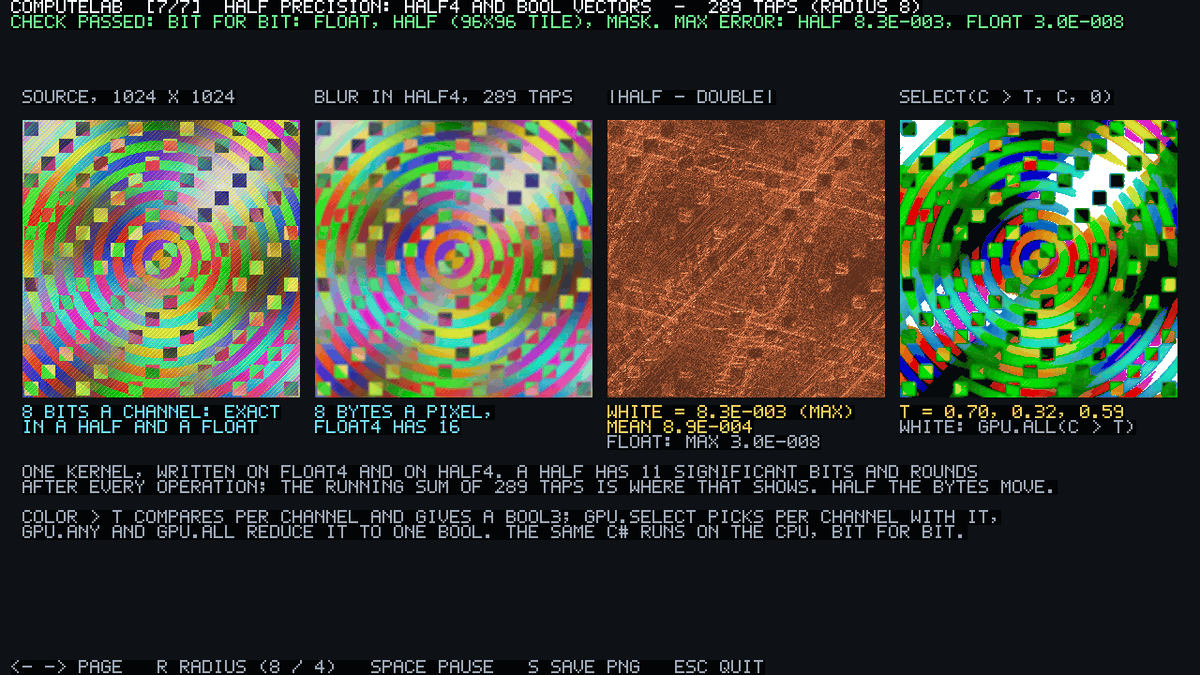
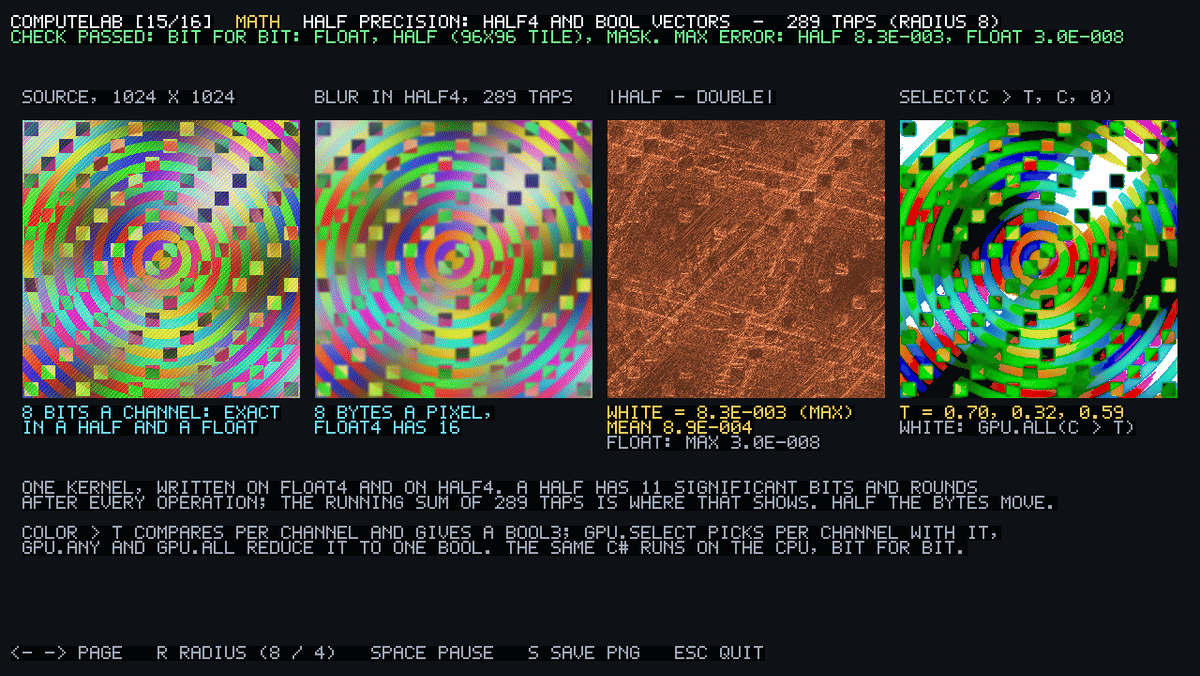
Half precision page joins the lab's Math topic; README grid, thumbnail, tests with local arrays and shared helpers

diff --git a/tests/SharpCompute.Tests/ComputeLab/ComputeLabTests.cs b/tests/SharpCompute.Tests/ComputeLab/ComputeLabTests.cs
@@ -200,7 +200,7 @@ public sealed class ComputeLabTests
         "LocalArrays",
         "SIMD reduction", "SIMD compaction", "SIMD shuffle",
         "Indirect",
-        "Bits", "FastMath", "Small and wide integers",
+        "Bits", "FastMath", "Small and wide integers", "Half precision",
         "Shared code",
     ];
 
@@ -211,8 +211,8 @@ public sealed class ComputeLabTests
         "8-localarrays.png",
         "9-simd-reduction.png", "10-simd-compaction.png", "11-simd-shuffle.png",
         "12-indirect.png",
-        "13-bits.png", "14-fastmath.png", "15-small-and-wide-integers.png",
-        "16-shared-code.png",
+        "13-bits.png", "14-fastmath.png", "15-small-and-wide-integers.png", "16-half-precision.png",
+        "17-shared-code.png",
     ];
 
     [MetalFact]
@@ -231,14 +231,14 @@ public sealed class ComputeLabTests
                     "fixed-size local arrays",
                     "SIMD-group reductions", "ballots and prefix sums", "lane shuffles",
                     "indirect dispatch",
-                    "bit and packing intrinsics", "per-shader compile options", "8-bit and 64-bit integers",
+                    "bit and packing intrinsics", "per-shader compile options", "8-bit and 64-bit integers", "Half4 and bool vectors",
                     "static helpers and struct methods",
                 ],
                 pages.Select(static p => p.Feature));
 
             // Topic by topic, in the lab's order, every topic with at least one page.
             Assert.Equal(
-                [.. Enumerable.Repeat(LabTopics.Atomics, 3), .. Enumerable.Repeat(LabTopics.SharedMemory, 4), LabTopics.LocalArrays, .. Enumerable.Repeat(LabTopics.Simd, 3), LabTopics.Dispatch, LabTopics.Math, LabTopics.Math, LabTopics.Math, LabTopics.CodeReuse],
+                [.. Enumerable.Repeat(LabTopics.Atomics, 3), .. Enumerable.Repeat(LabTopics.SharedMemory, 4), LabTopics.LocalArrays, .. Enumerable.Repeat(LabTopics.Simd, 3), LabTopics.Dispatch, .. Enumerable.Repeat(LabTopics.Math, 4), LabTopics.CodeReuse],
                 pages.Select(static p => p.Topic));
             Assert.Equal(LabTopics.All, pages.Select(static p => p.Topic).Distinct());
             Assert.Equal(pages.Select(static p => p.Topic), pages.Select(static p => p.Topic).OrderBy(static t => LabTopics.All.ToList().IndexOf(t)));
@@ -251,17 +251,20 @@ public sealed class ComputeLabTests
             Assert.Equal(pages.Count, pages.Select(static p => LabPages.Slug(p.Name)).Distinct().Count());
 
             // Only the privatised page times a second dispatch, and only the matrix product has a rate.
-            Assert.Equal(pages.Select(static p => p.Name == "Histogram: privatised"), pages.Select(static p => p.Baseline is not null));
+            Assert.Equal(pages.Select(static p => p.Name is "Histogram: privatised" or "Half precision"), pages.Select(static p => p.Baseline is not null));
             Assert.Equal(pages.Select(static p => p.Name == "MatMul"), pages.Select(static p => p is IRatedPage));
 
             // The CPU side runs on all cores unless the page says otherwise, as its check line does too.
             Assert.Equal(
                 ["PrefixSum", "SIMD reduction", "SIMD compaction", "SIMD shuffle", "Shared code"],
                 pages.Where(static p => p.CpuNote != "all cores").Select(static p => p.Name));
-            Assert.All(pages.Where(static p => p.CpuNote != "all cores" && p.Name != "Shared code"), static p => Assert.Equal("one core", p.CpuNote));
+            Assert.All(pages.Where(static p => p.CpuNote != "all cores" && p.Name is not ("Shared code" or "Half precision")), static p => Assert.Equal("one core", p.CpuNote));
 
             // A CPU time that is extrapolated from a sample says so.
             Assert.Equal("all cores, scaled from every 8th pixel", pages.Single(static p => p.Name == "Shared code").CpuNote);
+
+            // And so does one that is not of the page's own kernel: the half-precision page times the float blur on the CPU.
+            Assert.Equal("all cores, the float blur", pages.Single(static p => p.Name == "Half precision").CpuNote);
 
             // --page takes the name or the file-name form of it, in any case.
             Assert.Equal(1, LabPages.Find(pages, "Histogram: privatised"));
@@ -276,6 +279,9 @@ public sealed class ComputeLabTests
             Assert.Equal(13, LabPages.Find(pages, "fastmath"));
             Assert.Equal(14, LabPages.Find(pages, "small-and-wide-integers"));
             Assert.Equal(14, LabPages.Find(pages, "Small and wide integers"));
+            Assert.Equal(15, LabPages.Find(pages, "half-precision"));
+            Assert.Equal(15, LabPages.Find(pages, "Half precision"));
+            Assert.Equal(16, LabPages.Find(pages, "shared-code"));
             Assert.Equal(-1, LabPages.Find(pages, "privatised"));
             Assert.Equal(-1, LabPages.Find(pages, "shuffle"));
         }
@@ -417,8 +423,8 @@ public sealed class ComputeLabTests
                 Assert.Contains("All GPU results match the CPU.", summary);
                 Assert.DoesNotContain("FAIL", summary);
                 // Every variant of every page: two histograms, compaction, reduction, prefix sum, product, blur, local arrays,
-                // SIMD reduction (3), SIMD compaction, shuffle, indirect (3), bits, fast math, small and wide integers, shared code.
-                int variants = 2 + 2 + 1 + 2 + 1 + 2 + 2 + 2 + 3 + 2 + 2 + 3 + 1 + 2 + 1 + 1;
+                // SIMD reduction (3), SIMD compaction, shuffle, indirect (3), bits, fast math, small and wide integers, half precision, shared code.
+                int variants = 2 + 2 + 1 + 2 + 1 + 2 + 2 + 2 + 3 + 2 + 2 + 3 + 1 + 2 + 1 + 2 + 1;
                 Assert.Equal(variants, summary.Split('\n').Count(static line => line.TrimStart().StartsWith("PASS", StringComparison.Ordinal)));
                 Assert.Contains("256 bins", summary);
                 Assert.Contains("4 bins (64x the contention)", summary);
@@ -436,14 +442,22 @@ public sealed class ComputeLabTests
                 Assert.Equal(variants, summary.Split('\n').Count(static line => line.Contains("GPU ", StringComparison.Ordinal) && line.Contains(" ms   CPU ", StringComparison.Ordinal)));
                 Assert.Equal(2, summary.Split('\n').Count(static line => line.Contains("GFLOP/s   CPU ", StringComparison.Ordinal)));
                 Assert.Equal(1 + 3 + 2 + 2, summary.Split('\n').Count(static line => line.Contains(" ms (one core)", StringComparison.Ordinal))); // the prefix sum, and the SIMD pages' variants
-                Assert.Contains("[9/16] SIMD groups / SIMD reduction: SIMD-group reductions", summary);
+                Assert.Contains("[9/17] SIMD groups / SIMD reduction: SIMD-group reductions", summary);
 
-                Assert.Contains("[15/16] Math / Small and wide integers: 8-bit and 64-bit integers", summary);
+                Assert.Contains("[15/17] Math / Small and wide integers: 8-bit and 64-bit integers", summary);
                 Assert.Contains("1,048,576 bytes equalised in place, 1,048,576 64-bit hashes: GPU, ForCpu and plain C# agree", summary);
 
                 // The privatised histogram is also timed against the global-atomics one, at both bin counts.
-                Assert.Contains("[2/16] Atomics / Histogram: privatised: threadgroup atomics", summary);
+                Assert.Contains("[2/17] Atomics / Histogram: privatised: threadgroup atomics", summary);
                 Assert.Equal(2, summary.Split('\n').Count(static line => line.TrimStart().StartsWith("global atomics: GPU ", StringComparison.Ordinal) && line.Contains("this page's kernel is ", StringComparison.Ordinal)));
+
+                // And the half blur against the float blur, at both radii; its CPU time is the float blur's.
+                Assert.Contains("[16/17] Math / Half precision: Half4 and bool vectors", summary);
+                Assert.Contains("289 taps (radius 8)", summary);
+                Assert.Contains("81 taps (radius 4)", summary);
+                Assert.Equal(2, summary.Split('\n').Count(static line => line.TrimStart().StartsWith("the same blur in float: GPU ", StringComparison.Ordinal) && line.Contains("this page's kernel is ", StringComparison.Ordinal)));
+                Assert.Equal(2, summary.Split('\n').Count(static line => line.Contains("bit for bit: float, half (96x96 tile), mask.", StringComparison.Ordinal)));
+                Assert.Equal(2, summary.Split('\n').Count(static line => line.Contains(" ms (all cores, the float blur)", StringComparison.Ordinal)));
 
                 string[] pictures = s_pictures;
                 Assert.Equal(pictures.Append("summary.txt").Order(), Directory.GetFiles(directory).Select(Path.GetFileName).Order());
@@ -1161,6 +1175,122 @@ public sealed class ComputeLabTests
         using BitsPage bits = new(device);
         Assert.Equal(PipelineOrigin.None, ((ILabPage)bits).KernelOrigin);
         Assert.Equal(string.Empty, LabView.Describe(PipelineOrigin.None));
+    }
+
+    [MetalFact]
+    public void HalfPrecision_BothBlursMatchForCpuBitForBit_AndTheHalfErrorIsWhatElevenBitsGive()
+    {
+        using HalfPrecisionPage page = new(GraphicsDevice.GetDefault());
+
+        page.Compute(Frame);
+        LabCheck wide = page.Check();
+        Assert.True(wide.Passed, wide.Summary);
+        Assert.Equal((8, 289), (page.Radius, page.Taps));
+        Assert.StartsWith("bit for bit: float, half (96x96 tile), mask.", wide.Summary);
+        Assert.NotNull(page.Baseline);
+        Assert.Equal("the same blur in float", page.Baseline!.Value.Name);
+        Assert.True(page.GpuMilliseconds > 0 && page.FloatGpuMilliseconds > 0);
+
+        // The float blur is exact up to its one division; the half blur rounds every tap to 11 bits,
+        // which is five orders of magnitude more and still under 1 % of the range.
+        Assert.InRange(page.FloatMaxError, 0, HalfPrecisionPage.FloatErrorBound);
+        Assert.InRange(page.HalfMaxError, 1e-4, HalfPrecisionPage.HalfErrorBound);
+        Assert.InRange(page.HalfMeanError, 1e-5, page.HalfMaxError);
+        Assert.True(page.HalfMaxError > 1000 * page.FloatMaxError);
+        double wideError = page.HalfMaxError;
+
+        // The alpha channel is the sum of the weights divided by the same sum, in the same order: exactly 1.
+        Assert.All(new[] { 0, 12345, HalfPrecisionPage.Size * HalfPrecisionPage.Size - 1 }, i => Assert.Equal((Half)1f, page.HalfResult[i].W));
+        Assert.Equal(1f, page.FloatResult[777].W);
+
+        // A blur of values in 0..1 stays in 0..1, and the half result is the float result within the error.
+        Half4 half = page.HalfResult[(500 * HalfPrecisionPage.Size) + 300];
+        Float4 single = page.FloatResult[(500 * HalfPrecisionPage.Size) + 300];
+        Assert.InRange((float)half.X, 0f, 1f);
+        Assert.InRange(MathF.Abs((float)half.X - single.X), 0f, (float)page.HalfMaxError + 1e-6f);
+
+        // Fewer taps, a smaller sum, a smaller error.
+        Assert.True(page.OnKeyDown(Key.R));
+        Assert.Equal(1, page.Variant);
+        page.Compute(Frame);
+        LabCheck narrow = page.Check();
+        Assert.True(narrow.Passed, narrow.Summary);
+        Assert.Equal((4, 81), (page.Radius, page.Taps));
+        Assert.True(page.HalfMaxError < wideError, $"{page.HalfMaxError} with 81 taps, {wideError} with 289");
+        Assert.False(page.OnKeyDown(Key.F));
+
+        // Both blurs are compiled without contraction (which is what makes the half one bit-exact on the
+        // CPU), and differ in their types and in nothing else.
+        Assert.Equal(ShaderCompileOptions.NoFpContract, Options<TentBlurFloat>());
+        Assert.Equal(ShaderCompileOptions.NoFpContract, Options<TentBlurHalf>());
+        Assert.Equal(ShaderCompileOptions.None, Options<HighlightMask>());
+        Assert.Equal(
+            Kernel<TentBlurFloat>().Replace(nameof(TentBlurFloat), "X").Replace("packed_float4", "V").Replace("float4(0.0f)", "V0").Replace("float4", "V").Replace("0.0f", "0").Replace("float", "S"),
+            Kernel<TentBlurHalf>().Replace(nameof(TentBlurHalf), "X").Replace("packed_half4", "V").Replace("half4(half(0.0f))", "V0").Replace("half4", "V").Replace("half(0.0f)", "0").Replace("half", "S"));
+        Assert.Contains("sum += image[row + dx] * w;", Kernel<TentBlurHalf>());
+
+        static ShaderCompileOptions Options<T>()
+            where T : struct, IComputeShaderDescriptor<T> => T.CompileOptions;
+
+        // The kernel function: what comes before it is the layout guard of the element type, which does differ.
+        static string Kernel<T>()
+            where T : struct, IComputeShaderDescriptor<T> => T.MslSource[T.MslSource.IndexOf("kernel void", StringComparison.Ordinal)..];
+    }
+
+    [MetalFact]
+    public void HalfPrecision_MaskIsAComponentwiseComparison_AndFollowsTheThreshold()
+    {
+        using HalfPrecisionPage page = new(GraphicsDevice.GetDefault());
+
+        page.Compute(Frame);
+        Half3 threshold = page.Threshold;
+        ReadOnlySpan<Half4> blurred = page.HalfResult;
+        ReadOnlySpan<uint> highlights = page.Highlights;
+        int none = 0, some = 0, all = 0;
+
+        for (int i = 0; i < blurred.Length; i += 37)
+        {
+            // Restated with scalar C#: a channel is kept where it is above its threshold.
+            Half4 color = blurred[i];
+            bool r = color.X > threshold.X, g = color.Y > threshold.Y, b = color.Z > threshold.Z;
+            Float4 expected = r && g && b
+                ? new Float4(1f, 1f, 1f, 1f)
+                : new Float4(r ? (float)color.X : 0f, g ? (float)color.Y : 0f, b ? (float)color.Z : 0f, r || g || b ? 1f : 0f);
+
+            Assert.Equal(Gpu.PackUnorm4x8(expected), highlights[i]);
+            (none, some, all) = (none + (!r && !g && !b ? 1 : 0), some + ((r || g || b) && !(r && g && b) ? 1 : 0), all + (r && g && b ? 1 : 0));
+        }
+
+        // The picture has all three kinds of pixel.
+        Assert.True(none > 100 && some > 100 && all > 100, $"{none} with no channel, {some} with some, {all} with all");
+
+        // Another time, another threshold, another mask.
+        uint[] before = highlights.ToArray();
+        page.Compute(new LabFrame(Headless.Time + 2f, Deterministic: true));
+        Assert.NotEqual(threshold, page.Threshold);
+        Assert.False(before.AsSpan().SequenceEqual(page.Highlights));
+        Assert.True(page.Check().Passed);
+    }
+
+    [Fact]
+    public void HalfPrecision_SourceIsExactInAHalf()
+    {
+        Float4[] source = HalfPrecisionPage.CreateSource();
+        Assert.Equal(HalfPrecisionPage.Padded * HalfPrecisionPage.Padded, source.Length);
+
+        for (int i = 0; i < source.Length; i += 7)
+        {
+            Float4 pixel = source[i];
+            Assert.Equal(pixel.X, (float)(Half)pixel.X);
+            Assert.Equal(pixel.Y, (float)(Half)pixel.Y);
+            Assert.Equal(pixel.Z, (float)(Half)pixel.Z);
+            Assert.Equal(1f, pixel.W);
+            Assert.InRange(pixel.X, 0f, 1f);
+            Assert.Equal(MathF.Round(pixel.Y * 256f), pixel.Y * 256f);
+        }
+
+        // Not a flat picture: there is something to blur.
+        Assert.True(source.Select(static p => p.X).Distinct().Count() > 100);
     }
 
     [Fact]

diff --git a/tests/SharpCompute.SourceGenerators.Tests/HalfBoolVectorTests.cs b/tests/SharpCompute.SourceGenerators.Tests/HalfBoolVectorTests.cs
@@ -744,6 +744,55 @@ public class HalfBoolVectorTests
             descriptor.KernelBody);
     }
 
+    /// <summary>
+    /// Half and bool vectors in a thread's own arrays and in code a shader shares with others: a
+    /// <c>stackalloc</c> array of either (native types, since nothing crosses the boundary) and a
+    /// static helper of another class that takes and returns them.
+    /// </summary>
+    [Fact]
+    public void HalfAndBoolVectors_InLocalArraysAndSharedHelpers()
+    {
+        ShaderDescriptor descriptor = GeneratorHarness.Run(
+            """
+            using System;
+            using SharpCompute;
+
+            public static class Tone
+            {
+                public static Half3 Knee(Half3 color, Half knee) => Gpu.Select(color > knee, new Half3(knee), color);
+
+                public static Bool3 Clipped(Half3 color) => color >= (Half)1f | Gpu.IsNaN(color);
+            }
+
+            [GeneratedComputeShaderDescriptor]
+            public readonly partial struct Grade(ReadWriteBuffer<Half3> colors, Half knee) : IComputeShader
+            {
+                public void Execute()
+                {
+                    Span<Half3> taps = stackalloc Half3[3];
+                    Span<Bool3> clipped = stackalloc Bool3[3];
+
+                    for (int i = 0; i < taps.Length; i++)
+                    {
+                        taps[i] = Tone.Knee(colors[ThreadIds.X + i], knee);
+                        clipped[i] = Tone.Clipped(taps[i]);
+                    }
+
+                    Bool3 any = clipped[0] | clipped[1] | clipped[2];
+                    colors[ThreadIds.X] = Gpu.Select(any, new Half3((Half)0f), (taps[0] + taps[1] + taps[2]) / (Half)3);
+                }
+            }
+            """).Verify("Grade");
+
+        Assert.Contains("half3 Tone_Knee(half3 color, half knee)", descriptor.MslSource);
+        Assert.Contains("return metal::select(color, half3(knee), color > knee);", descriptor.MslSource);
+        Assert.Contains("bool3 Tone_Clipped(half3 color)", descriptor.MslSource);
+        Assert.Contains("return (color >= half(1.0f)) | metal::isnan(color);", descriptor.MslSource);
+        Assert.Contains("half3 taps[3]", descriptor.KernelBody);
+        Assert.Contains("bool3 clipped[3]", descriptor.KernelBody);
+        Assert.Contains("bool3 any = clipped[0] | clipped[1] | clipped[2];", descriptor.KernelBody);
+    }
+
     // ---- bool vectors: diagnostics -----------------------------------------------------------------
 
     private const string BoolReason = "'bool' has no stable layout across the CPU/GPU boundary; use an 'int' or 'uint' instead";

diff --git a/samples/SharpCompute.Samples.ComputeLab/Pages/HalfPrecisionPage.cs b/samples/SharpCompute.Samples.ComputeLab/Pages/HalfPrecisionPage.cs
@@ -109,7 +109,12 @@ public sealed class HalfPrecisionPage : ILabPage
 
     public string Feature => "Half4 and bool vectors";
 
+    public string Topic => LabTopics.Math;
+
     public string Help => "R radius (8 / 4)";
+
+    /// <summary>The CPU time is the float blur's: see the remarks of the class.</summary>
+    public string CpuNote => "all cores, the float blur";
 
     public IReadOnlyList<string> Variants => s_variants;
 
@@ -471,8 +476,8 @@ public readonly partial struct TentBlurFloat(
 
 /// <summary>
 /// <see cref="TentBlurFloat"/> on half pixels: the same statements with <see cref="Half4"/> and
-/// <see cref="Half"/> for <see cref="Float4"/> and <c>float</c> (a shader can only call its own
-/// methods, so the body is repeated). Every operation rounds to a half.
+/// <see cref="Half"/> for <see cref="Float4"/> and <c>float</c> (the two differ in their types, so
+/// the body is written twice rather than shared). Every operation rounds to a half.
 /// </summary>
 [ShaderOptions(FpContract = false)]
 [GeneratedComputeShaderDescriptor]

diff --git a/README.md b/README.md
@@ -143,9 +143,9 @@ full size.
 <tr>
 <td width="50%" valign="top">
 <a href="docs/screenshots/computelab-histogram-privatised.png"><img src="docs/screenshots/thumbs/computelab-histogram-privatised.png" width="100%" alt="ComputeLab's privatised-histogram page: an animated image, its luminance histogram counted with global atomics, and the same histogram counted per threadgroup, bin for bin identical"></a>
-<br><b>ComputeLab</b>: one page per core compute feature, by topic: atomics, threadgroup shared memory, local arrays, SIMD-group operations, indirect dispatch, bits, fast math and the 8-, 16- and 64-bit integers, shared shader code. Each page runs the feature on the GPU, checks it against the CPU and shows GPU ms against CPU ms. <a href="#computelab-pages">All pages below</a>.
+<br><b>ComputeLab</b>: one page per core compute feature, by topic: atomics, threadgroup shared memory, local arrays, SIMD-group operations, indirect dispatch, bits, fast math, the 8-, 16- and 64-bit integers and half precision, shared shader code. Each page runs the feature on the GPU, checks it against the CPU and shows GPU ms against CPU ms. <a href="#computelab-pages">All pages below</a>.
 <br><code>scripts/demo-computelab.sh [--page &lt;name&gt;] [--headless]</code>
-<br><sub>←/→ page · Space pause · S save PNG · Esc quit; each page lists its own keys (C, V, D, F, Up/Down)</sub>
+<br><sub>←/→ page · Space pause · S save PNG · Esc quit; each page lists its own keys (C, V, D, F, R, Up/Down)</sub>
 </td>
 <td width="50%" valign="top">
 <a href="docs/screenshots/textures-samplers.png"><img src="docs/screenshots/thumbs/textures-samplers.png" width="100%" alt="The Textures demo's sampler explorer: one small picture magnified through the six samplers, point and linear filtering in rows, clamp, repeat and mirror addressing in columns"></a>
@@ -251,8 +251,8 @@ SIMD-group pages. The Indirect and FastMath pages also say whether their kernel 
 <td width="33%" valign="top"><a href="docs/screenshots/computelab-small-and-wide-integers.png"><img src="docs/screenshots/thumbs/computelab-small-and-wide-integers.png" width="100%" alt="ComputeLab Small and wide integers page: an 8-bit image from a buffer of bytes, the same image equalised in place, and a 64-bit hash per pixel, with their histograms and hash bits below"></a><br><b>Math</b>: Small and wide integers<br><code>--page small-and-wide-integers</code></td>
 </tr>
 <tr>
+<td width="33%" valign="top"><a href="docs/screenshots/computelab-half-precision.png"><img src="docs/screenshots/thumbs/computelab-half-precision.png" width="100%" alt="ComputeLab Half precision page: an image, its 289-tap blur in Half4 arithmetic, the error of that blur against the blur in double, and a mask made with Gpu.Select from a componentwise comparison"></a><br><b>Math</b>: Half precision<br><code>--page half-precision</code></td>
 <td width="33%" valign="top"><a href="docs/screenshots/computelab-shared-code.png"><img src="docs/screenshots/thumbs/computelab-shared-code.png" width="100%" alt="ComputeLab Shared code page: a path-traced scene of spheres on a checkerboard, the static class and structs its shaders are built from, and the same scene traced by ForCpu at every 8th pixel"></a><br><b>Code reuse</b>: Shared code<br><code>--page shared-code</code></td>
-<td width="33%" valign="top"></td>
 <td width="33%" valign="top"></td>
 </tr>
 </table>
